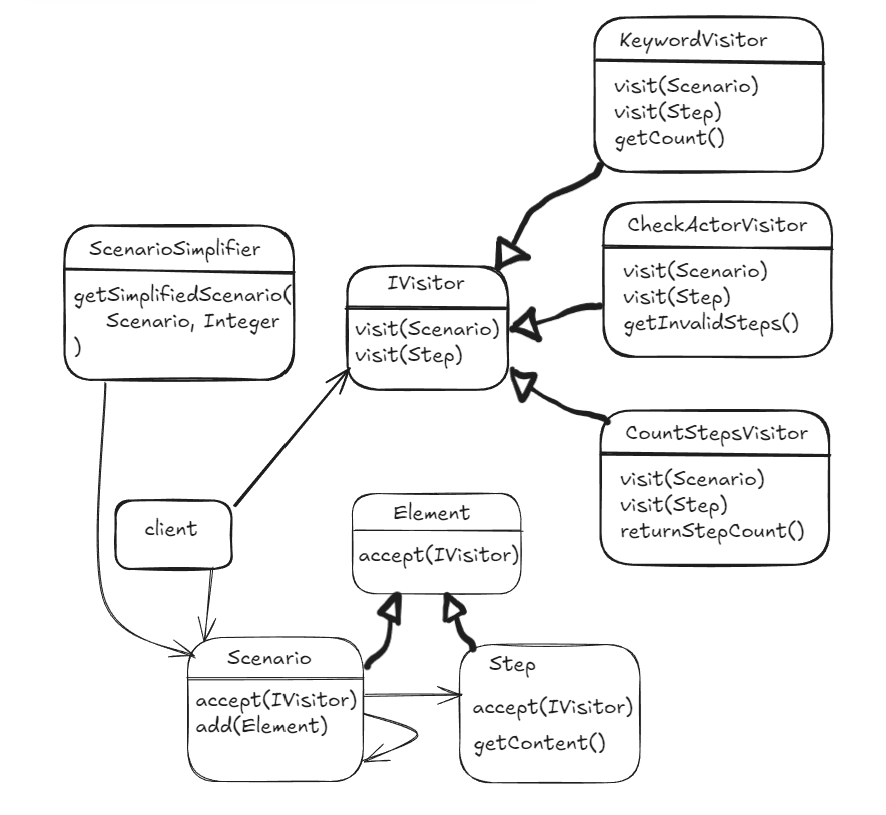
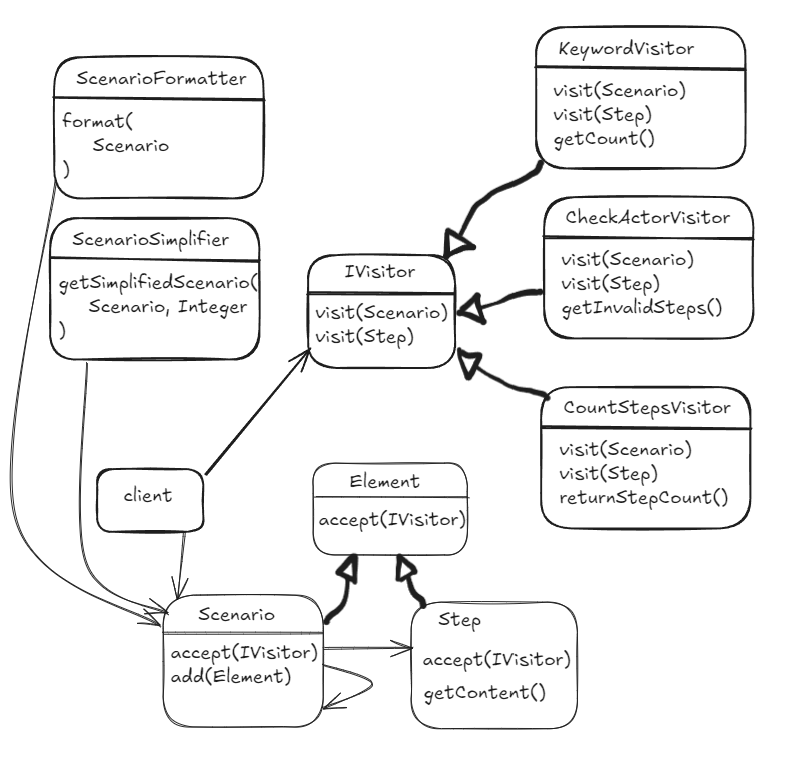
update uml and add unit test

diff --git a/src/test/java/pl/put/poznan/transformer/logic/elements/ScenarioFormatterTest.java b/src/test/java/pl/put/poznan/transformer/logic/elements/ScenarioFormatterTest.java
@@ -1,0 +1,48 @@
+package pl.put.poznan.transformer.logic.elements;
+
+import org.junit.jupiter.api.Test;
+
+import static org.junit.jupiter.api.Assertions.*;
+
+class ScenarioFormatterTest {
+
+    @Test
+    public void convertScenario() {
+        Scenario scenario = new Scenario();
+        scenario.setTitle("Test title");
+        scenario.setSystemActor("Test system actor");
+        scenario.addActor("actor");
+
+        Step step1 = new Step();
+        step1.setContent("Test step 1");
+        Step step2 = new Step();
+        step2.setContent("Test step 2");
+        Step step3 = new Step();
+        step3.setContent("Test step 3");
+
+        scenario.add(step1);
+        scenario.add(step2);
+        scenario.add(step3);
+
+        Scenario subScenario = new Scenario();
+        subScenario.setTitle("Test title2");
+        subScenario.setSystemActor("Test");
+        scenario.add(subScenario);
+        Step step4 = new Step("Test step 4");
+        subScenario.add(step4);
+
+        String string_scenario = (new ScenarioFormatter()).format(scenario);
+
+        assertEquals("Tytuł: Test title\n" +
+                "Aktor systemowy: Test system actor\n" +
+                "Aktorzy: actor\n" +
+                "\n" +
+                "1. Test step 1\n" +
+                "2. Test step 2\n" +
+                "3. Test step 3\n" +
+                "4. Test title2\n" +
+                "4.1. Test step 4\n", string_scenario);
+
+    }
+
+}
